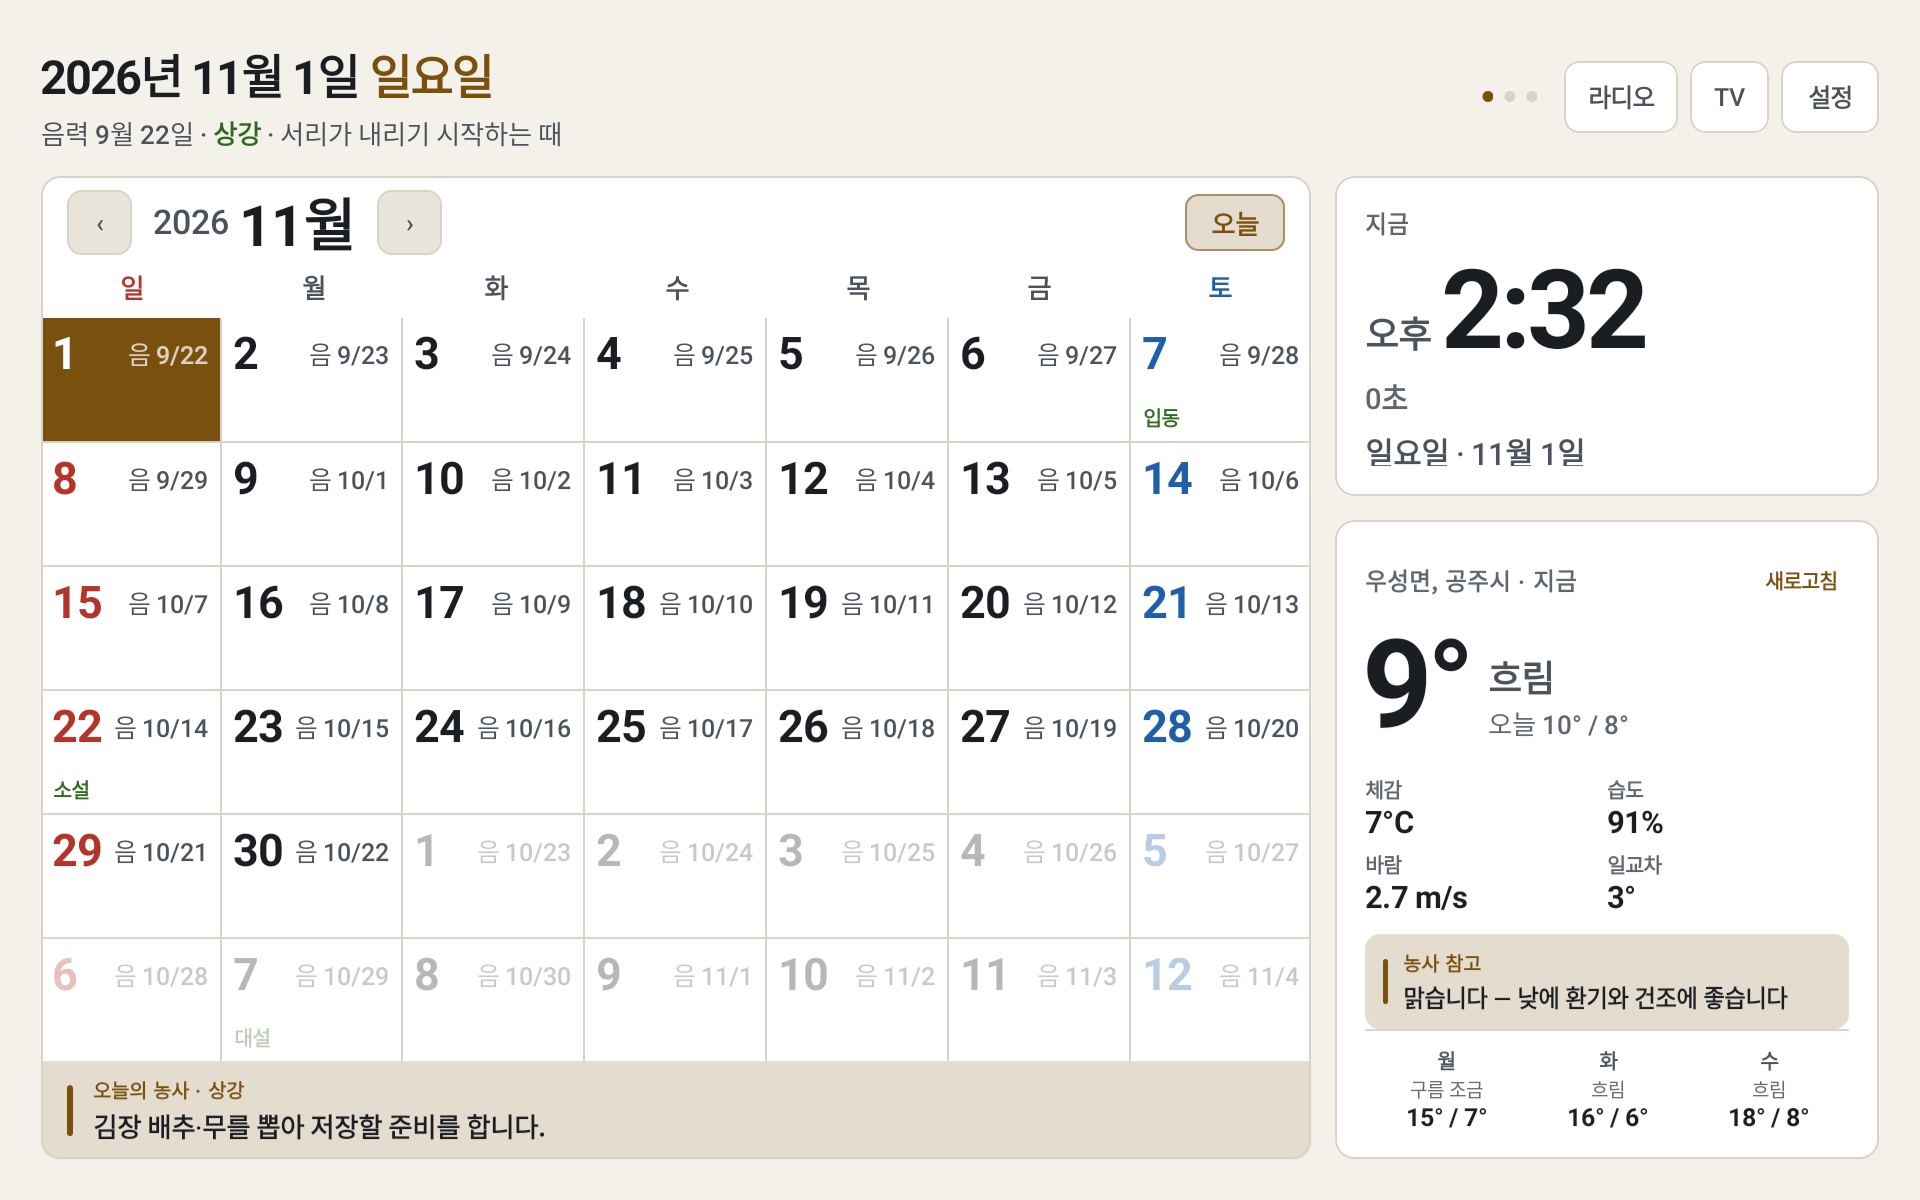
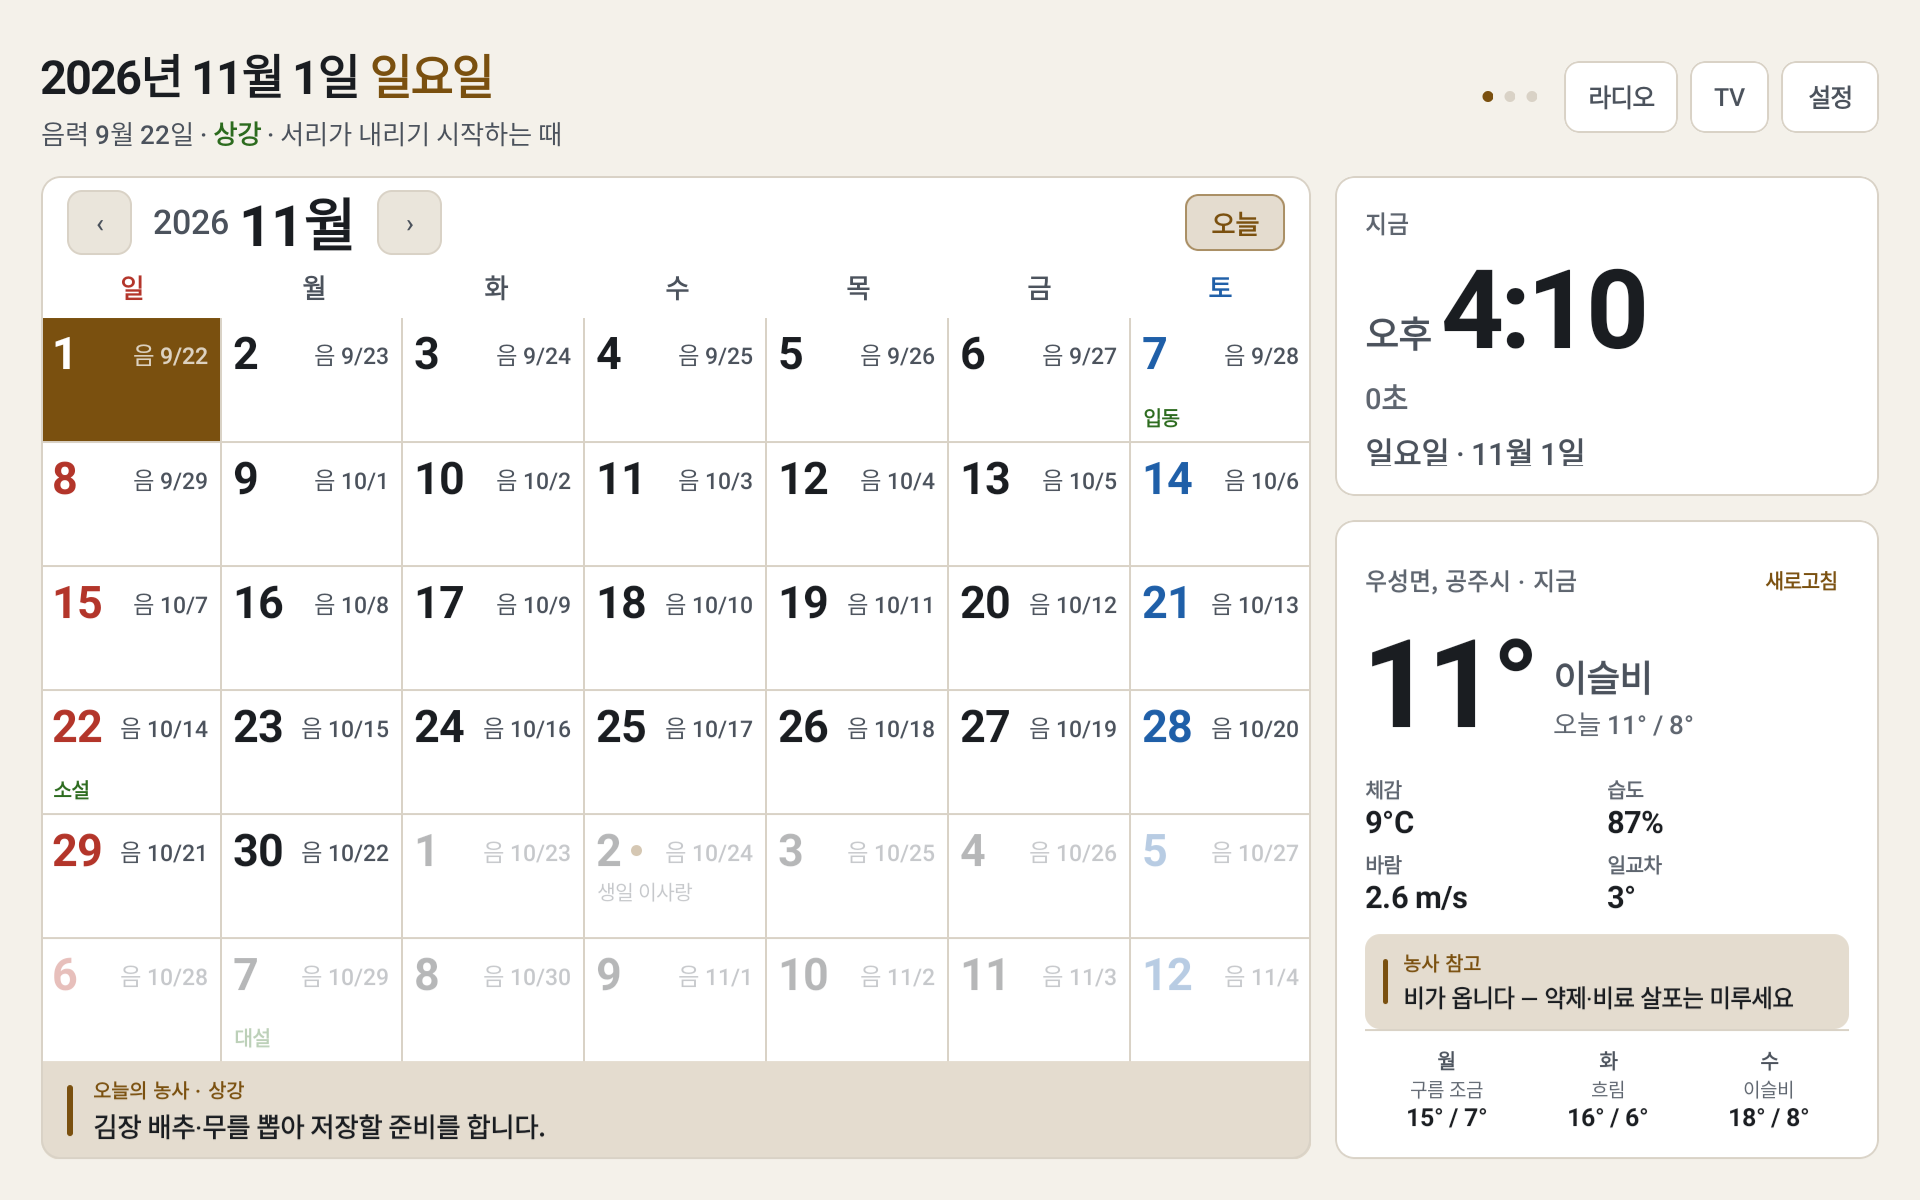
feat(android): 달력 셀에 그날 첫 일정 한 줄, 음력 16sp
- 날짜 아래에 그날 첫 일정 제목 1줄(14sp Medium, 보조색, 말줄임) 추가
- eventDates 집합 → eventTitles Map 으로 바꿔 셀이 제목까지 받게 함
- 음력 16sp 로 정착, 오른쪽 정렬 유지
- docs: DESIGN §0.4·§4, CHANGELOG 0.8.0-dev, TODO T-051, 캡처 22·26 갱신

diff --git a/app/src/main/java/com/borasarang/daon/ui/CalendarPanel.kt b/app/src/main/java/com/borasarang/daon/ui/CalendarPanel.kt
@@ -65,7 +65,7 @@ fun CalendarPanel(
     calendar: CalendarData,
     korean: Boolean,
     locale: Locale,
-    eventDates: Set<LocalDate> = emptySet(),
+    eventTitles: Map<LocalDate, String> = emptyMap(),
     modifier: Modifier = Modifier,
     onDateClick: (LocalDate) -> Unit = {},
 ) {
@@ -138,7 +138,7 @@ fun CalendarPanel(
                                 calendar = calendar,
                                 korean = korean,
                                 selected = selected == date,
-                                hasEvents = date in eventDates,
+                                eventTitle = eventTitles[date],
                                 modifier = Modifier.weight(1f).fillMaxHeight(),
                                 onClick = {
                                     selected = date
@@ -237,7 +237,7 @@ private fun DayCell(
     calendar: CalendarData,
     korean: Boolean,
     selected: Boolean,
-    hasEvents: Boolean,
+    eventTitle: String?,
     modifier: Modifier,
     onClick: () -> Unit,
 ) {
@@ -291,7 +291,7 @@ private fun DayCell(
                     color = dayColor,
                     maxLines = 1,
                 )
-                if (hasEvents) {
+                if (eventTitle != null) {
                     Spacer(Modifier.width(5.dp))
                     Box(
                         Modifier
@@ -313,6 +313,16 @@ private fun DayCell(
                         maxLines = 1,
                     )
                 }
+            }
+            // 날짜 아래에 그날 첫 일정 제목 한 줄. 길면 말줄임한다.
+            if (eventTitle != null) {
+                Text(
+                    text = eventTitle,
+                    style = Home.eventTitle,
+                    color = if (isToday) TodayLunarInk else Kiosk.color.textSecondary,
+                    maxLines = 1,
+                    overflow = TextOverflow.Ellipsis,
+                )
             }
             Spacer(Modifier.weight(1f))
             if (tag != null) {

diff --git a/app/src/main/java/com/borasarang/daon/ui/DashboardScreen.kt b/app/src/main/java/com/borasarang/daon/ui/DashboardScreen.kt
@@ -128,7 +128,10 @@ fun DashboardScreen(vm: DashboardViewModel) {
     val nowState = rememberNow(perSecond = screen == ScreenMode.CLOCK)
     // 날짜가 바뀔 때만 알린다. 매초 달력 42칸을 다시 그리지 않게 하는 핵심이다.
     val today by remember { derivedStateOf { nowState.value.toLocalDate() } }
-    val eventDates = remember(events) { events.mapTo(HashSet()) { it.date } }
+    // 날짜별로 셀에 보여줄 일정 제목 1개. 목록은 시간순이라 첫 건이 그날 첫 일정이다.
+    val eventTitles = remember(events) {
+        events.groupBy { it.date }.mapValues { (_, list) -> list.first().title }
+    }
     val todayEvents = remember(events, today) { events.filter { it.date == today } }
     val baseDensity = LocalDensity.current
     val scaledDensity = remember(baseDensity, vm.textScale) {
@@ -231,7 +234,7 @@ fun DashboardScreen(vm: DashboardViewModel) {
                         locale = locale,
                         hour24 = vm.hour24,
                         celsius = vm.celsius,
-                        eventDates = eventDates,
+                        eventTitles = eventTitles,
                         todayEvents = todayEvents,
                         onDateClick = { detailDate = it },
                         onOpenClock = {
@@ -387,7 +390,7 @@ private fun CalendarHome(
     locale: Locale,
     hour24: Boolean,
     celsius: Boolean,
-    eventDates: Set<LocalDate>,
+    eventTitles: Map<LocalDate, String>,
     todayEvents: List<CalendarEvent>,
     onDateClick: (LocalDate) -> Unit,
     onOpenClock: () -> Unit,
@@ -427,7 +430,7 @@ private fun CalendarHome(
                 calendar = calendar,
                 korean = korean,
                 locale = locale,
-                eventDates = eventDates,
+                eventTitles = eventTitles,
                 modifier = Modifier.weight(0.7f).fillMaxHeight(),
                 onDateClick = onDateClick,
             )

diff --git a/app/src/main/java/com/borasarang/daon/ui/theme/HomeTokens.kt b/app/src/main/java/com/borasarang/daon/ui/theme/HomeTokens.kt
@@ -71,8 +71,8 @@ object Home {
         fontFeatureSettings = TABULAR,
     )
     val lunar = TextStyle(
-        fontSize = 17.sp,
-        lineHeight = 19.sp,
+        fontSize = 16.sp,
+        lineHeight = 18.sp,
         fontWeight = FontWeight.Medium,
         fontFeatureSettings = TABULAR,
     )
@@ -80,6 +80,12 @@ object Home {
         fontSize = 14.sp,
         lineHeight = 15.sp,
         fontWeight = FontWeight.Bold,
+    )
+    /** 달력 셀의 일정 제목 한 줄. 절기 이름보다 한 단계 부드럽게 둔다. */
+    val eventTitle = TextStyle(
+        fontSize = 14.sp,
+        lineHeight = 16.sp,
+        fontWeight = FontWeight.Medium,
     )
     val farmLabel = TextStyle(
         fontSize = 13.5.sp,

diff --git a/docs/TODO.md b/docs/TODO.md
@@ -59,7 +59,7 @@
 > 계기: 키오스크 고정 중에는 기기 설정에 들어갈 수 없어 앱 안에서 테마·밝기를 바꿔야 한다
 - [x] T-049 화면 테마(블랙/라이트)·밝기: 설정 첫 섹션 `화면`. `Kiosk.color` 상태화 + `LightKioskColors`(`#F4F1EA`·흰 카드·`#7A500F`), `onAccent`·`scrim` 토큰. 밝기는 창 속성(`screenBrightness`)으로 20·40·60·80·100%·시스템. 실측 `sbrt=0.2`/`-1`, 재시작 유지, 콜드 스타트 1829ms·PSS 84/91MB, 테스트 69건·i18n 274키. 캡처 `docs/screenshots/22~23` (2026-11-01)
 - [x] T-050 날씨 배경 장면: `WeatherScene.kt` — 시간대별 하늘·해/달/별·구름·들판, 비/흐림에 하늘 가라앉힘, 1분 시간대 확인 + 구름 0.4초 틱, 라이트 팔레트, 카드 alpha 0.88. Weawow APK 분석 근거·목업 `docs/mockups/v0.7-weather/`. 캡처 `docs/screenshots/24~25` (2026-11-01)
-- [x] T-051 달력 셀 음력 위치: 음력을 날짜 오른쪽에 작게(오른쪽 정렬) 붙여 한 줄로 줄이고, 절기·공휴일 이름이 잘리지 않게 했다(11/7 `입동`, 12/25 `기독탄신일`). 라이트·블랙 실기기 확인, 캡처 `docs/screenshots/22` 갱신 (2026-11-01)
+- [x] T-051 달력 셀 정리: 음력을 날짜 오른쪽에 작게(16sp, 오른쪽 정렬) 붙여 한 줄로 줄이고, 절기·공휴일 이름이 잘리지 않게 했다(11/7 `입동`, 12/25 `기독탄신일`). 남는 공간에 그날 첫 일정 제목 1줄을 넣었다(12/2 `생일 이사람`). 라이트·블랙 실기기 확인, 캡처 `docs/screenshots/22`·`26` (2026-11-01)
 
 ## v0.6 — TV 채널 개편 + 키오스크 고정 복원 (2026-11-01)
 - [x] T-046 TV 채널: EBS 1TV·2TV 제외, **YTN 뉴스**(`aZyD6EPl6KU`)·**MBC 뉴스**(`q9bM12ucTIY`) 추가. 유튜브는 매니페스트가 없어 **공식 IFrame 임베드 플레이어**를 WebView(`assets/yt_player.html`)로 띄운다. `WebViewAssetLoader` 로 https 출처 제공(오류 152 회피), 전체 화면에서도 같은 WebView 재사용, 재생을 멈추면 `destroy()`. `TvStream` sealed(`Hls`/`YouTube`), `TvCatalog` `videoId` 파싱, 테스트 65건. 실기기 YTN·MBC 뉴스 재생·전체 화면 확인. **PSS 유튜브 재생 중 250MB · 멈춘 뒤 184MB** (2026-11-01)

diff --git a/docs/CHANGELOG.md b/docs/CHANGELOG.md
@@ -21,9 +21,11 @@
 - 성능 참고: APK 를 새로 설치한 직후 첫 실행은 dex 최적화 때문에 4368ms 였고, 그 뒤 4회는 **1844–1864ms**(예산 2000ms). 콜드 스타트 판정은 설치 직후 1회를 빼고 본다
 
 ### 달력 셀 정리
-- 음력을 날짜 숫자 **오른쪽에 작게 붙여 한 줄**로 만들었다(오른쪽 정렬). 6주 달에서 음력이 차지하던 줄이 없어져 절기·공휴일 이름이 온전히 보인다 — 11월 7일 `입동`, 11월 22일 `소설`, 12월 25일 `기독탄신일` 모두 잘리지 않는다
+- 음력을 날짜 숫자 **오른쪽에 작게 붙여 한 줄**로 만들었다(오른쪽 정렬, 16sp Medium). 6주 달에서 음력이 차지하던 줄이 없어져 절기·공휴일 이름이 온전히 보인다 — 11월 7일 `입동`, 11월 22일 `소설`, 12월 25일 `기독탄신일` 모두 잘리지 않는다
 - 오늘 칸의 음력은 `onAccent` 74% 로, 공휴일·절기 이름은 기존 색 규칙을 그대로 따른다. 이벤트 점은 숫자 바로 옆에 남는다
-- 실기기 확인: 라이트·블랙 양쪽에서 11월(6주)·12월 그리드 캡처, 테스트 69건 유지. 캡처 `docs/screenshots/22` 갱신
+- 날짜 아래에 그날 **첫 일정 제목 1줄**(`Home.eventTitle` 14sp, 보조색, 1줄 말줄임)을 넣었다. 남는 공간을 일정에 쓰고, 여러 건이면 첫 건만 보여 준다(나머지는 셀 클릭 상세). 12월 2일 `생일 이사람` 실기기 확인
+- 셀 세로 여유: 100% 글씨에서 내용 높이 약 62px(`31+16+15`), 셀 높이 약 123px. 115%(아주 크게)에서는 절기 태그가 살짝 잘릴 수 있다 — 일정 줄까지 넣은 결과로 받아들인다
+- 실기기 확인: 라이트·블랙 양쪽에서 11월(6주)·12월 그리드 캡처, 테스트 69건 유지. 캡처 `docs/screenshots/22`·`26` 갱신
 
 ### 키오스크 고정 저장 수정 (T-047 보완)
 - Fire OS 의 `화면 고정됨` 확인 창은 별도 액티비티가 아닌 SystemUI 창이라 액티비티가 `ON_RESUME` 을 받지 않는다. 그래서 `확인` 을 눌러도 토글이 꺼진 채로 남고 `kiosk_lock` 이 저장되지 않았다

diff --git a/docs/DESIGN.md b/docs/DESIGN.md
@@ -45,7 +45,8 @@
 
 ### 0.4 달력 표시 규칙
 - 양력 숫자: 기본 `#F5F7FA`, 일요일 `#F07A6A`, 토요일 `#82B4FF`, 공휴일 `#F07A6A`.
-- 음력: 날짜 숫자 **오른쪽에 작게, 오른쪽 정렬**로 `음 9/21`. 한 줄로 붙여서 아래 줄을 절기·공휴일 이름에 내준다(6주 달에서 `입동` 이 잘리던 문제). 상세 패널에서는 `음력 9월 21일`.
+- 음력: 날짜 숫자 **오른쪽에 작게, 오른쪽 정렬**로 `음 9/21` (16sp Medium). 한 줄로 붙여서 아래 줄을 절기·공휴일 이름에 내준다(6주 달에서 `입동` 이 잘리던 문제). 상세 패널에서는 `음력 9월 21일`.
+- 일정: 날짜 아래에 그날 **첫 일정 제목 1줄** (14sp Medium, 보조색, 1줄 말줄임). 여러 건이면 첫 건만 — 나머지는 셀 클릭 상세에서 본다. 날짜 옆 점은 일정이 있다는 표시로 남긴다.
 - 공휴일: 빨강 + 이름(예: `개천절`, `대체공휴일`, `한글날`). 색만으로 구분하지 않는다.
 - 24절기: 초록(`#9ADB8A`) + 이름(예: `한로`, `상강`). 셀 클릭 → 상세 패널.
 - 오늘: amber(`#F0B45E`) 배경 + `오늘` 라벨 + 어두운 글씨.
@@ -262,6 +263,7 @@
 | `docs/screenshots/23-v0.8-settings-screen-light-ko.png` | 설정 `화면` 섹션 (테마·밝기), 라이트 |
 | `docs/screenshots/24-v0.8-weather-light-rain-ko.png` | 라이트 테마 날씨 화면 — 하늘 장면 + 비 |
 | `docs/screenshots/25-v0.8-weather-black-rain-ko.png` | 블랙 테마 날씨 화면 — 하늘 장면 + 비 |
+| `docs/screenshots/26-v0.8-calendar-event-december-ko.png` | 12월 그리드 — 12/2 일정 제목 1줄, `대설`·`동지`·`기독탄신일`·`소한` 온전히 표시 |
 
 - 설정은 다이얼로그가 아닌 **인앱 우측 패널**로 그린다. 다이얼로그 창을 쓰면 키오스크에서 시스템 바가 다시 나타난다.
 
